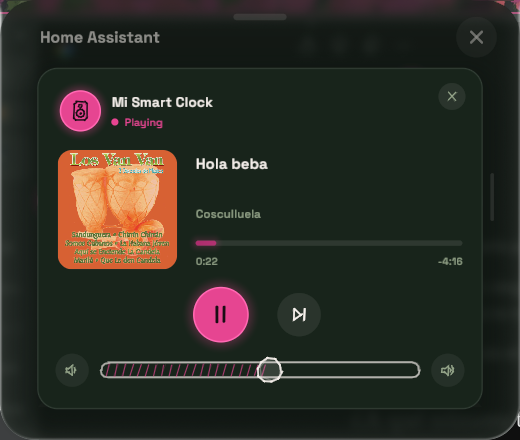
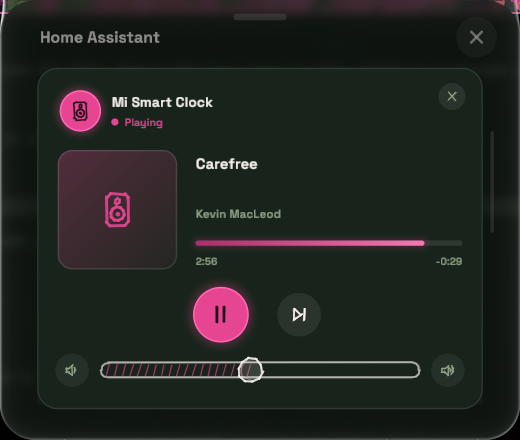
Speakers and Apple TV: click the progress bar to jump in what plays
- media_seek to where the bar was clicked, at once on the card
- a speaker's card shows the pencil speaker where there is no artwork
- README: the speaker photo plays a CC BY track (Kevin MacLeod, Carefree)

diff --git a/README.md b/README.md
@@ -260,13 +260,15 @@ For a media player from Home Assistant's [DLNA Digital Media Renderer](https://w
 
 - **A click** plays or pauses it. The tile is lit while it plays, and says what: *Playing · Song*.
 - **A right click** opens its card:
-  - the artwork, the title and the artist, and the live progress;
+  - the artwork, the title and the artist, and the live progress: **click the bar to jump** forwards or backwards in the song;
   - play/pause and next;
   - a volume slider, with a quieter and a louder button at its ends (5 % each). The mouse wheel anywhere on the card changes the volume too.
 
 There is no power button: a DLNA renderer is not switched on or off. Without an `icon`, a speaker gets the pencil speaker (`speaker.svg`). In the settings menu, picking an entity of the DLNA integration sets all of this for you.
 
 ![The speaker card](docs/img/speaker.png)
+
+<sub>Playing “Carefree” by Kevin MacLeod ([incompetech.com](https://incompetech.com)), licensed under [CC BY 4.0](https://creativecommons.org/licenses/by/4.0/).</sub>
 
 ## 3D printer
 
@@ -379,7 +381,7 @@ Each tile:
 
 Tile sizes set in edit mode are kept apart, in `layout.json`. A plain `items` list at the top level (outside any room) also works: it is shown first, with no title.
 
-Lights use `light.toggle` and `light.turn_on`. Speakers use `media_player.media_play_pause`, `media_player.media_next_track` and `media_player.volume_set`. Everything else (`switch`, `input_boolean`, `media_player`, scripts…) uses `homeassistant.toggle`.
+Lights use `light.toggle` and `light.turn_on`. Speakers use `media_player.media_play` / `media_pause` (by their state: many renderers do not take `media_play_pause`), `media_next_track`, `media_seek` and `volume_set`. Everything else (`switch`, `input_boolean`, `media_player`, scripts…) uses `homeassistant.toggle`.
 
 ## Privacy
 
